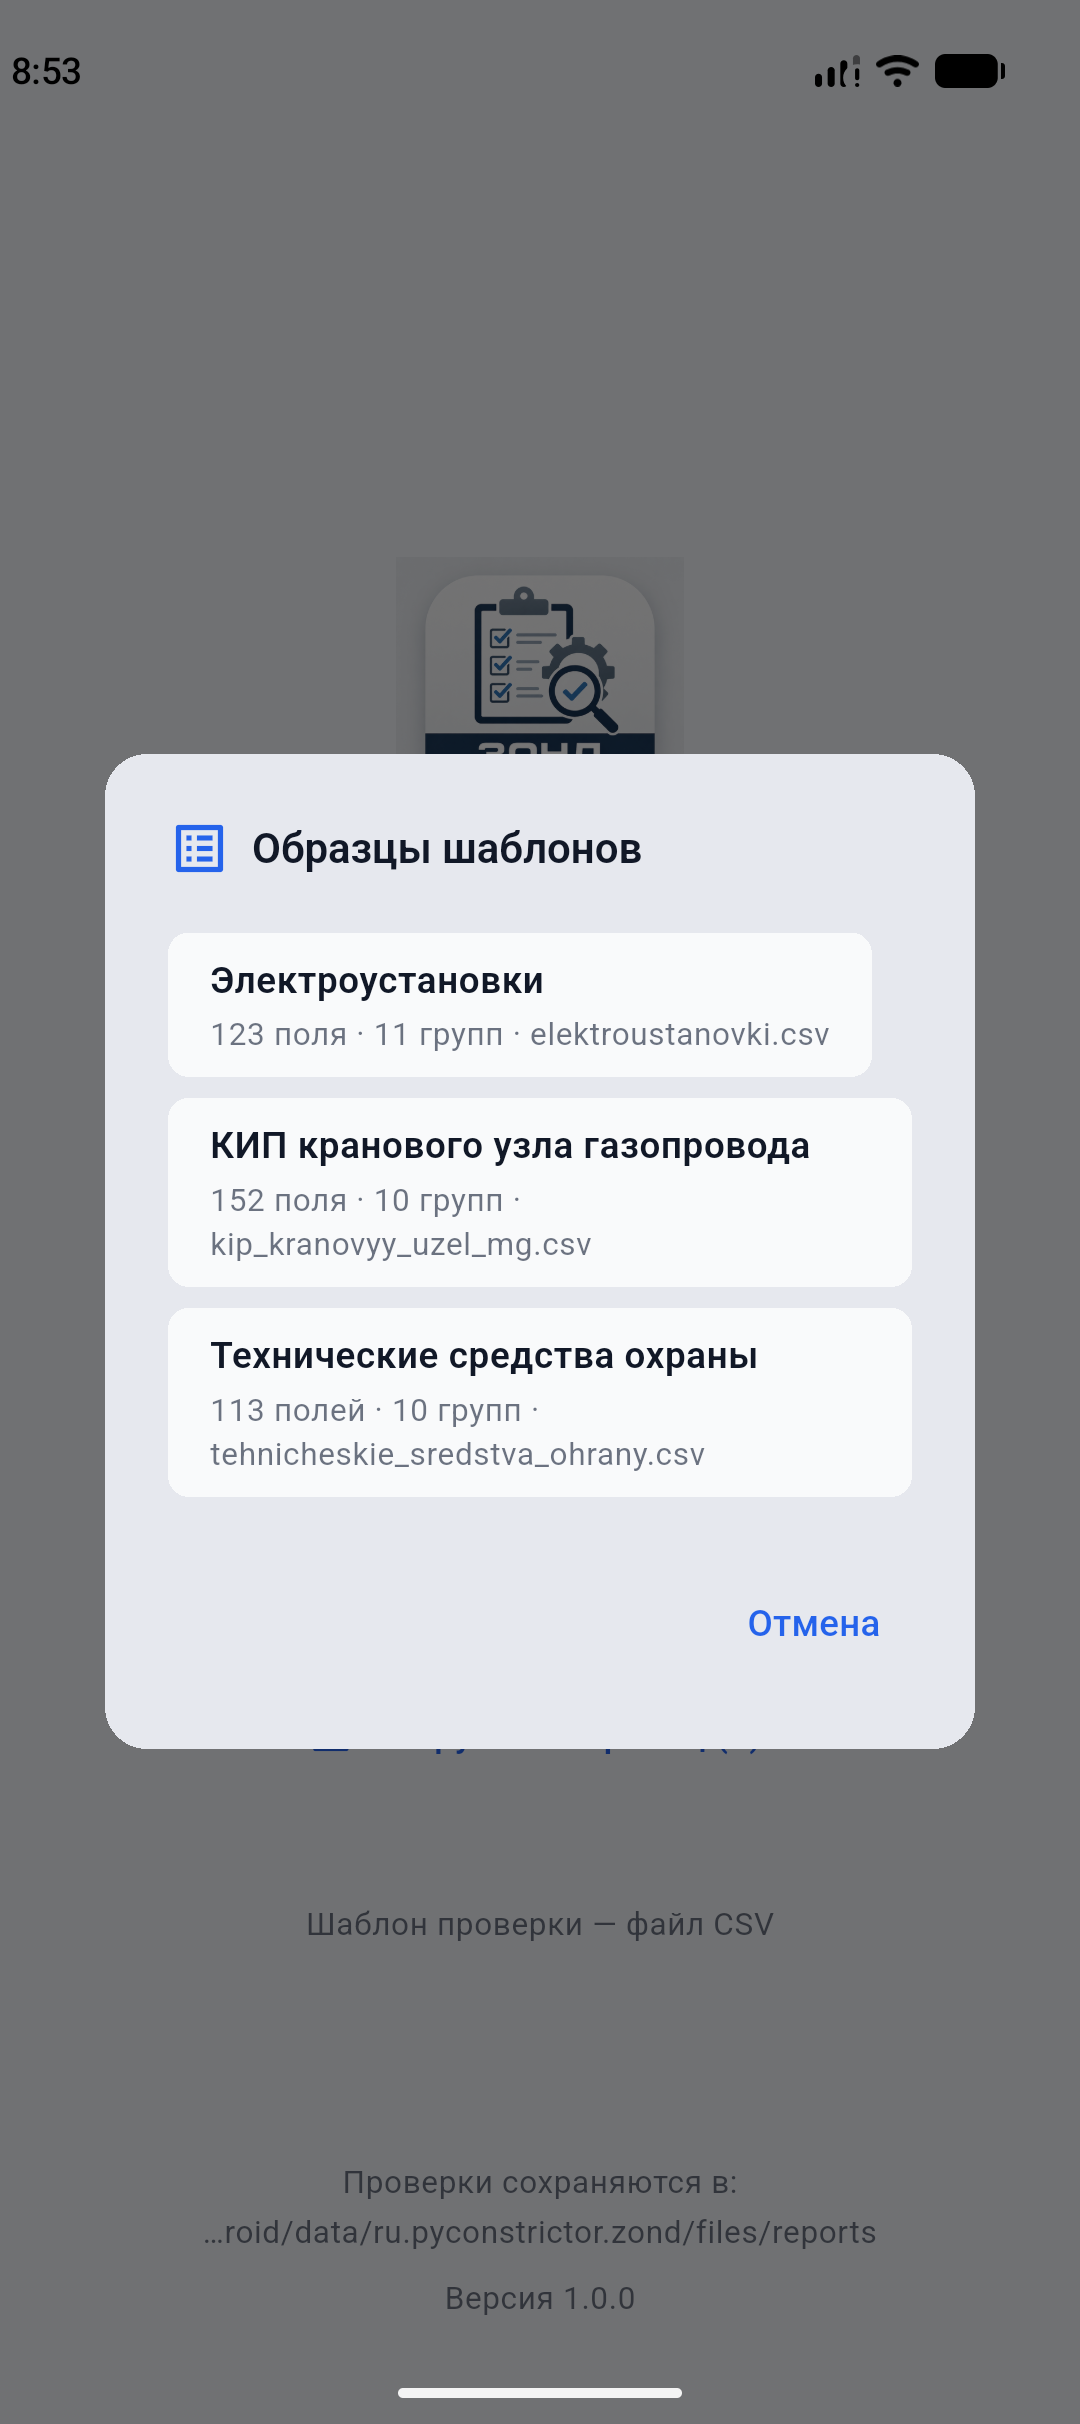
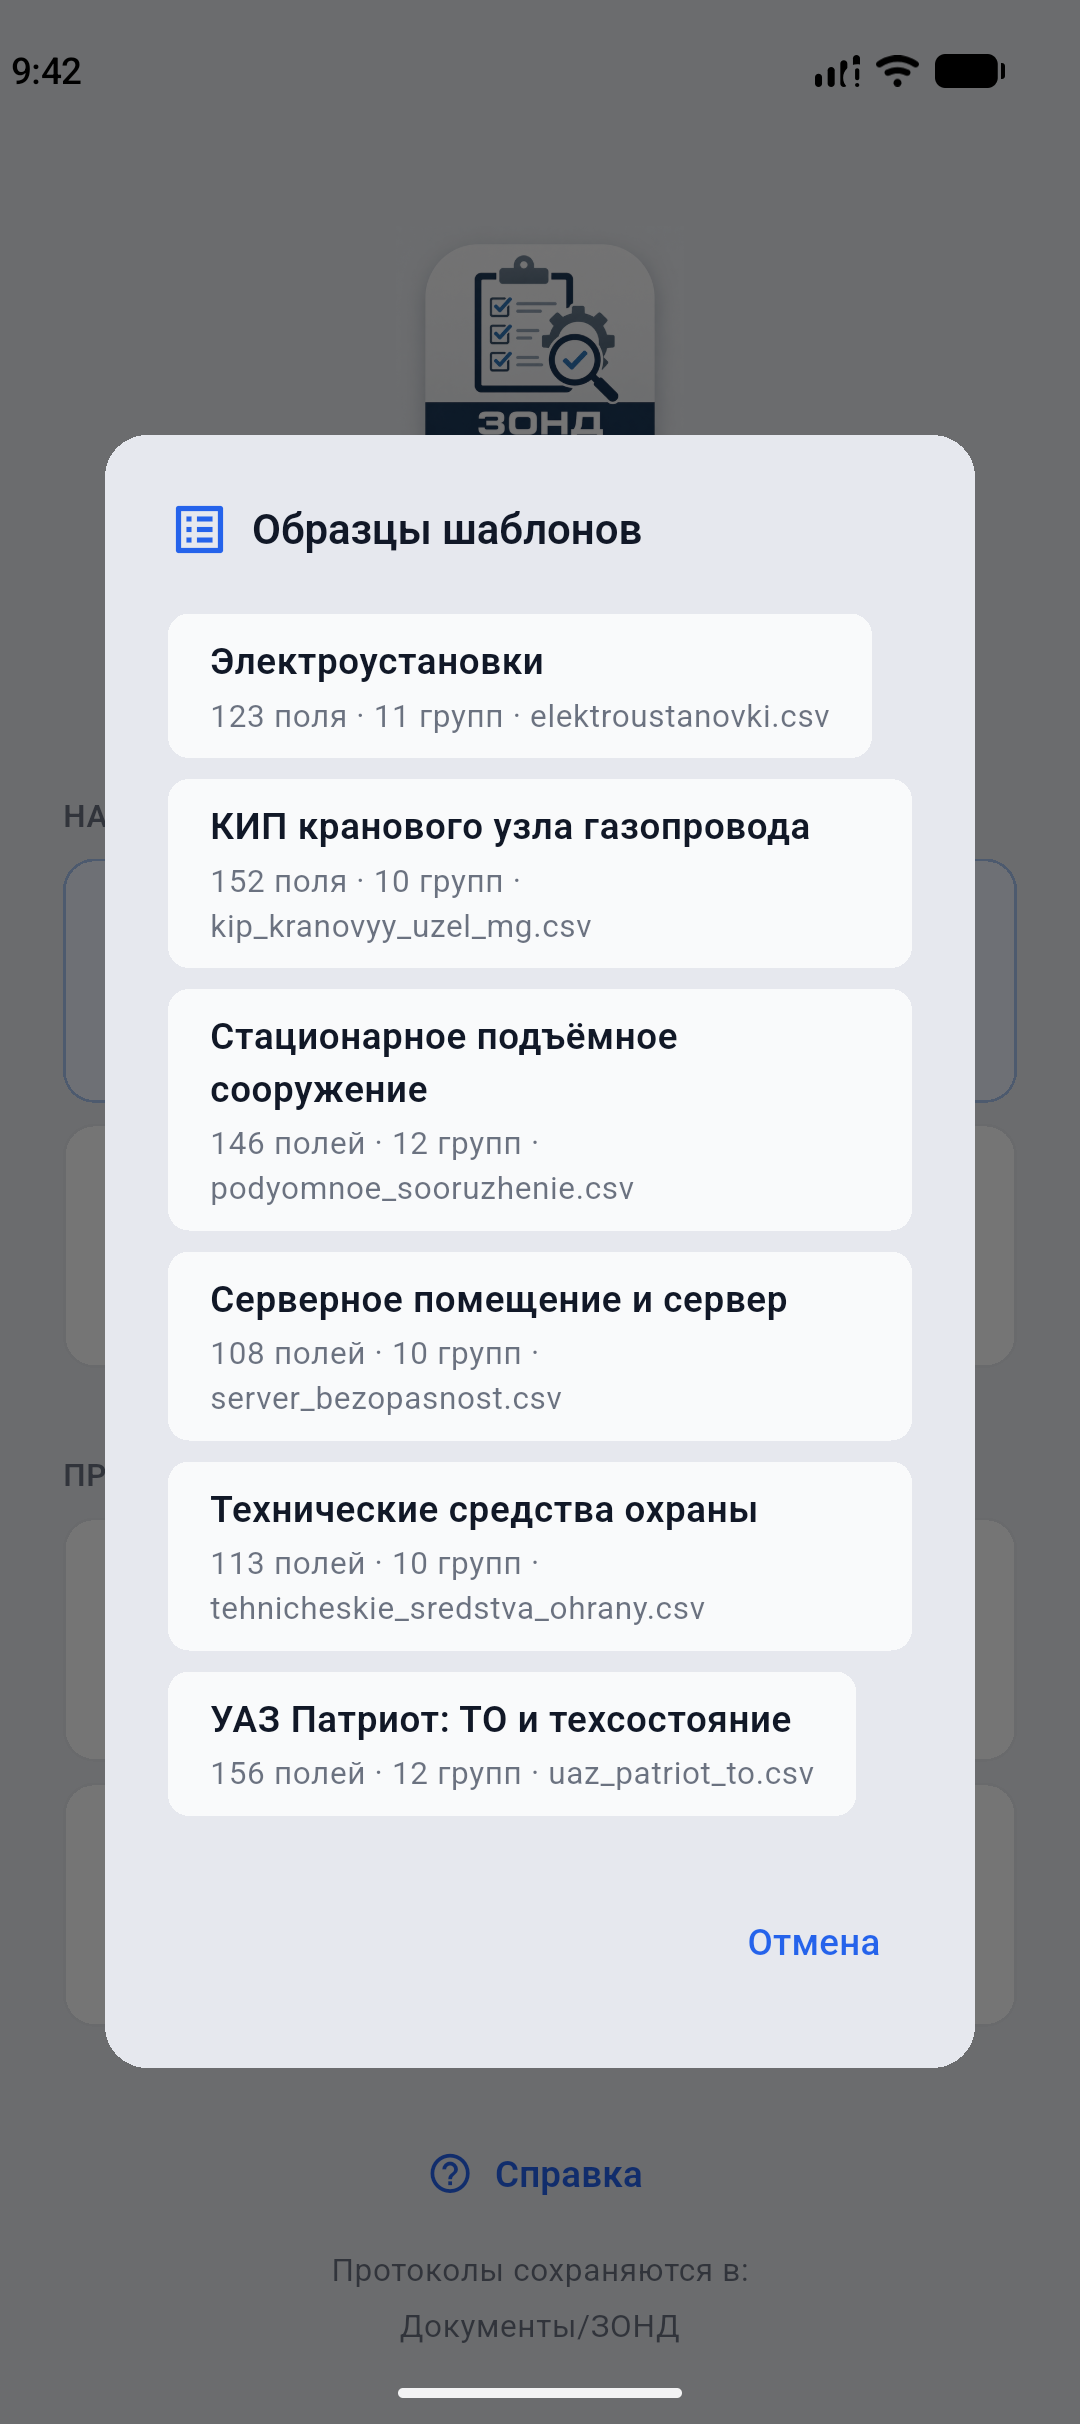
docs: шесть шаблонов в поставке и новый снимок списка образцов

diff --git a/README.md b/README.md
@@ -76,9 +76,8 @@ ZOND_LOG_LEVEL=DEBUG python -m zond.ects
 Три способа, от самого простого:
 
 1. **Готовые шаблоны уже в приложении.** На стартовом экране — карточка
-   **«Готовые шаблоны (3)»**. Внутри три шаблона (КИП кранового узла,
-   электроустановки, технические средства охраны), переносить на устройство
-   ничего не нужно.
+   **«Готовые шаблоны (6)»**. Внутри шесть шаблонов от КИП кранового узла до
+   проверки серверной, переносить на устройство ничего не нужно.
 2. **Свой шаблон из файла.** Карточка **«Свой шаблон из файла»** открывает
    системный диалог выбора файла. Файл должен уже лежать в памяти устройства:
    скачайте его из почты или облака, либо перекиньте по USB. На Android это
